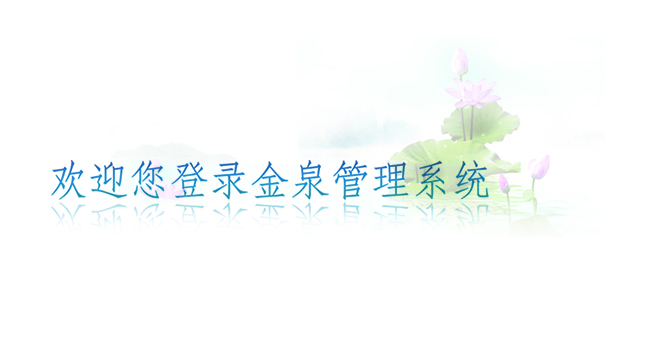
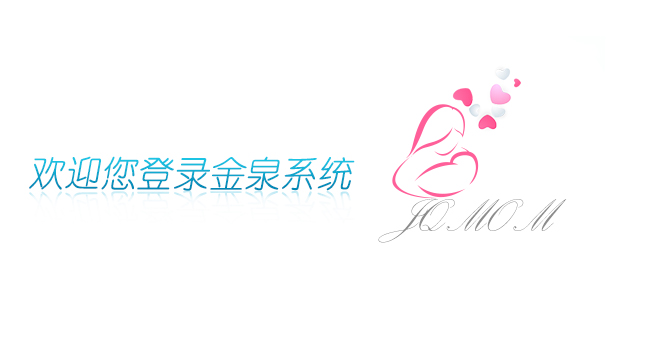
更新系统整体样式 由于暗黑色改为康乃馨色

Changed region(s): [[0.031, 0.1838, 0.8682, 0.6435], [0.7132, 0.1838, 0.7442, 0.2145], [0.5891, 0.6435, 0.6202, 0.6741]]

diff --git a/views/login.html b/views/login.html
@@ -25,54 +25,47 @@
 <body>
 <frameset rows="81,*,32" cols="*" framespacing="0" frameborder="no" border="0">
     <div id="l_top">
-        <table width="100%" border="0" cellspacing="0" cellpadding="0">
-            <tr>
-                <td width="296" ><div class="logo"><img src="../images/logo.jpg" /></div> </td>
-                <td >
-                    <table width="100%" border="0" cellspacing="0" cellpadding="0">
-                        <tr>
-                            <td class="l_top_c">&nbsp;</td>
-                        </tr>
-                    </table>
-                </td>
-                <td width="331" class="l_top_r"></td>
-            </tr>
-        </table>
-
+        <div style="margin:0px auto; padding:0px; width:1000px;">
+            <table width="1000"  align="center" border="0" cellspacing="0" cellpadding="0">
+                <tr>
+                    <td width="296" ><div class="logo"><img src="images/logo.jpg" /></div> </td>
+                    <td >
+                        <table width="100%" border="0" cellspacing="0" cellpadding="0">
+                            <tr>
+                                <td class="l_top_c">&nbsp;</td>
+                            </tr>
+                        </table>
+                    </td>
+                    <td width="331" class="l_top_r"></td>
+                </tr>
+            </table>
+        </div>
     </div>
+
+
+
     <div id="l_center">
         <div class="ppt">
-            <script>
-                var box =new PPTBox();
-                box.width = 650; //宽度
-                box.height = 400;//高度
-                box.autoplayer = 3;//自动播放间隔时间
-                box.add({"url":"../images/tu1.jpg","href":"#","title":"悬浮提示标题1"})
-                box.add({"url":"../images/tu2.jpg","href":"#","title":"悬浮提示标题2"})
-                box.add({"url":"../images/tu3.jpg","href":"#","title":"悬浮提示标题3"})
-                box.add({"url":"../images/tu4.jpg","href":"#","title":"悬浮提示标题4"})
-                box.show();
-            </script>
+            <img src="images/tu1.jpg"/>
 
         </div>
-        <form method="post" id="myform" action="/jinquan">
         <div class="dl_wai">
-            <div class="dl">
-                <div class="dl_0">
-                    <div class="dl0_l">账 号：</div><div class="dl0_r"><input id="account" name="account" class="input1" /></div>
+            <form method="post" id="myform" action="/jinquan">
+                <div class="dl">
+                    <div class="dl_0">
+                        <div class="dl0_l">账 号：</div><div class="dl0_r"><input id="account" name="account" class="input1" /></div>
+                    </div>
+                    <div class="dl_0">
+                        <div class="dl0_l">密 码：</div><div class="dl0_r"><input id="password" name="password" class="input1" /></div>
+                    </div>
+                    <div class="dl_bt">
+                        <input onclick="submitForm()" class="button1" value=" " />
+                    </div>
                 </div>
-                <div class="dl_0">
-                    <div class="dl0_l">密 码：</div><div class="dl0_r"><input id="password" name="password" class="input1" /></div>
-                </div>
-                <div class="dl_bt">
-                    <input class="button1" onclick="submitForm()" value="" />
-                </div>
-            </div>
-
+            </form>
         </div>
-        </form>
     </div>
-    <div id="l_bottom">北京金禾天成科技有限公司 版权所有@2012</div>
+    <div id="l_bottom">金泉母乳妈妈会所 版权所有@2012</div>
 </frameset>
 </body>
 </html>

diff --git a/views/welcome/index.html b/views/welcome/index.html
@@ -9,23 +9,31 @@
     <script type="application/javascript" src="../../js/layer/layer.js"></script>
     <script type="application/javascript" src="../../js/laydate/laydate.js"></script>
 </head>
+
+
 <body>
 <frameset rows="81,*,29" cols="*" framespacing="0" frameborder="no" border="0">
     <div id="top">
-        <table width="100%" border="0" cellspacing="0" cellpadding="0">
+        <table width="100%"  border="0" cellspacing="0" cellpadding="0">
             <tr>
-                <td width="296" ><div class="logo"><img src="../../images/logo.jpg" /></div> </td>
+                <td width="296" ><div class="logo"><img src="images/logo.jpg" /></div> </td>
                 <td >
                     <table width="100%" border="0" cellspacing="0" cellpadding="0">
                         <tr>
-                            <td class="l_top_c">&nbsp;</td>
+                            <td class="top_c"><div class="top_sty">欢迎使用莲花平台！管理员账号XXX</div></td>
                         </tr>
                     </table>
                 </td>
-                <td width="331" class="l_top_r"></td>
+                <td width="331" class="top_r">
+                    <div class="search_wai">
+                        <div class="search">
+                            <div class="sr_l"><input type="text"  class="input1"/></div>
+                            <div class="sr_r"><input  type="button" class="button1"/></div>
+                        </div>
+                    </div>
+                </td>
             </tr>
         </table>
-
     </div>
     <table width="100%" height="100%" border="0" cellspacing="0" cellpadding="0">
         <tr>
@@ -49,6 +57,8 @@
 
     </div>
 </frameset>
+
+
 
 </body>
 </html>

diff --git a/routes/jinquan/sysRoleAction.js b/routes/jinquan/sysRoleAction.js
@@ -4,6 +4,8 @@
  */
 
 var service = require('../../model/service/sysRole');
+var menuService = require('../../model/service/sysMenu');
+var resourcesService = require('../../model/service/sysResources');
 
 /**
  * 获取角色列表
@@ -41,7 +43,26 @@ module.exports.edit = function (req, res) {
     var show = req.query.show ? req.query.show : '';
     if(id == ''){
         var sysRole = [];//系统菜单
-        res.render('sysRole/sysRoleAdd', {sysRole : sysRole,show:show});
+
+        //获取所有菜单数据
+        menuService.fetchSysMenus(0,100,function(err, results) {
+            if(!err) {
+                var menus = results;
+                //获取所有资源数据
+                resourcesService.fetchSysResourcess(0,200,function(err, results) {
+                    if(!err) {
+                        var resourcess = results;
+                        res.render('sysRole/sysRoleAdd', {sysRole : sysRole,show:show,menus:menus,resourcess:resourcess});
+                    } else {
+                        console.log(err.message);
+                        res.render('error');
+                    }
+                })
+            } else {
+                console.log(err.message);
+                res.render('error');
+            }
+        })
     }else{
         service.fetchSingleSysRole(id, function(err, results) {
             if (!err) {

diff --git a/routes/jinquan/sysResourcesAction.js b/routes/jinquan/sysResourcesAction.js
@@ -39,7 +39,7 @@ module.exports.edit = function (req, res) {
     if(id == ''){
         var sysResources = [];//系统资源
         //获取所有菜单数据
-        menuService.fetchSysMenus(0,20,function(err, results) {
+        menuService.fetchSysMenus(0,100,function(err, results) {
             if(!err) {
                 res.render('sysResources/sysResourcesAdd', {data : sysResources,show:show,menus:results});
             } else {
